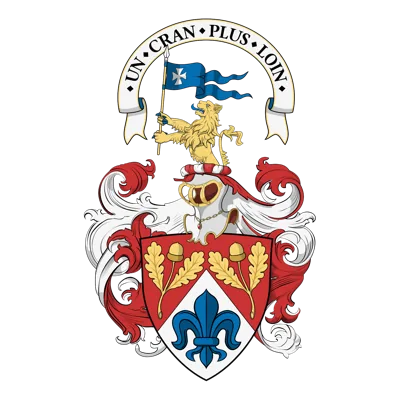
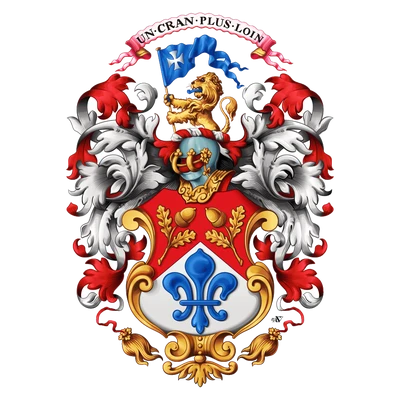
Armorial: replace Balvaird arms with richer Brim-DeForest rendering; add Windsor Herald card; reorder
- balvaird.webp replaced with the higher-quality painted Brim-DeForest of
  Balvaird achievement (bg removed -> transparent square 400x400, compressed 60KB)
- New petrie.webp (John Allen-Petrie OBE shield, transparent square, 48KB)
- Reorder: new Petrie 'officer' card takes Lundie's slot; Lundie moves to
  Greenan's slot; Greenan moves to Culbin's slot; Culbin removed
- Armorial card gains an 'officer' variant (name + office, no 'The Much Hon /
  <dignity> of' and no 'in the Baronage' flourish) for non-barony supporters

diff --git a/src/app/armorial/page.tsx b/src/app/armorial/page.tsx
@@ -91,13 +91,13 @@ export default function SupportersPage() {
                 key={b.name}
                 className="group relative flex h-full flex-col items-center border border-parchment-300/70 bg-parchment-50 px-6 pb-8 pt-10 text-center shadow-[0_18px_40px_-30px_rgba(10,16,36,0.5)] transition-[transform,border-color,box-shadow] duration-300 hover:-translate-y-1.5 hover:border-gold hover:shadow-[0_26px_50px_-28px_rgba(10,16,36,0.6)]">
                   <div className="pointer-events-none absolute inset-2.5 border border-gold/0 transition-colors duration-300 group-hover:border-gold/25" aria-hidden />
-                  {b.note && <Flourish text="in the Baronage of Scotland" placement="top" />}
+                  {b.note && !b.officer && <Flourish text="in the Baronage of Scotland" placement="top" />}
                   <div className="flex h-56 w-full items-center justify-center">
                     {b.img ? (
                       // eslint-disable-next-line @next/next/no-img-element
                       <img
                         src={b.img}
-                        alt={`Coat of arms — ${b.dignity} of ${b.name}`}
+                        alt={b.officer ? `Coat of arms — ${b.name}${b.note ? `, ${b.note}` : ""}` : `Coat of arms — ${b.dignity} of ${b.name}`}
                         width={208}
                         height={208}
                         loading="eager"
@@ -110,21 +110,34 @@ export default function SupportersPage() {
                     )}
                   </div>
                   <figcaption className="relative mt-6 w-full">
-                    {b.dignity !== "Younger" && (
-                      <span className="block font-sans text-[0.55rem] font-medium uppercase tracking-[0.26em] text-gold-deep/70">
-                        The Much Hon
-                      </span>
-                    )}
-                    <span className="mt-1 block font-sans text-xs font-semibold uppercase tracking-[0.3em] text-gold-deep">
-                      {b.dignity} of
-                    </span>
-                    <span className="mt-1.5 block font-display text-3xl text-navy">{b.name}</span>
-                    {b.note ? (
-                      <span className="mx-auto mt-2 block font-serif text-lg italic leading-snug text-gold-deep">
-                        {b.note}
-                      </span>
+                    {b.officer ? (
+                      <>
+                        <span className="block font-display text-2xl leading-tight text-navy">{b.name}</span>
+                        {b.note && (
+                          <span className="mt-2 block font-serif text-lg italic leading-snug text-gold-deep">
+                            {b.note}
+                          </span>
+                        )}
+                      </>
                     ) : (
-                      <Flourish text="in the Baronage of Scotland" placement="below" />
+                      <>
+                        {b.dignity !== "Younger" && (
+                          <span className="block font-sans text-[0.55rem] font-medium uppercase tracking-[0.26em] text-gold-deep/70">
+                            The Much Hon
+                          </span>
+                        )}
+                        <span className="mt-1 block font-sans text-xs font-semibold uppercase tracking-[0.3em] text-gold-deep">
+                          {b.dignity} of
+                        </span>
+                        <span className="mt-1.5 block font-display text-3xl text-navy">{b.name}</span>
+                        {b.note ? (
+                          <span className="mx-auto mt-2 block font-serif text-lg italic leading-snug text-gold-deep">
+                            {b.note}
+                          </span>
+                        ) : (
+                          <Flourish text="in the Baronage of Scotland" placement="below" />
+                        )}
+                      </>
                     )}
                   </figcaption>
               </figure>

diff --git a/src/lib/supporters.ts b/src/lib/supporters.ts
@@ -1,11 +1,13 @@
 /** The supporters shown in the homepage conveyor and on /supporters. */
 export type Barony = {
-  dignity: "Baron" | "Lord Baron" | "Earl Baron" | "Younger" | "Lord & Steward" | "Countess" | "Baroness";
+  dignity: "Baron" | "Lord Baron" | "Earl Baron" | "Younger" | "Lord & Steward" | "Countess" | "Baroness" | "Herald";
   name: string;
   img?: string;
   note?: string;
   /** shown on /supporters only, not in the homepage conveyor */
   pageOnly?: boolean;
+  /** a non-barony supporter (e.g. an officer of arms) — caption shows name + note only */
+  officer?: boolean;
   /** profile on roll.baronage.com */
   roll?: string;
 };
@@ -21,12 +23,12 @@ export const baronies: Barony[] = [
     note: "Chief of his Name",
   },
   { dignity: "Baron", name: "Kirkbuddo", roll: "https://roll.baronage.com/baron/jean-yves-de-la-sabliere", img: "/arms/kirkbuddo.webp" },
-  { dignity: "Baron", name: "Lundie", roll: "https://roll.baronage.com/baron/craig-ward", img: "/arms/lundie.webp" },
+  { dignity: "Herald", name: "John Allen-Petrie OBE", note: "Windsor Herald", officer: true, img: "/arms/petrie.webp", pageOnly: true },
   { dignity: "Baron", name: "Crawfordjohn", img: "/arms/crawfordjohn.webp", pageOnly: true },
   { dignity: "Baron", name: "Haliburton", img: "/arms/haliburton.webp", pageOnly: true },
   { dignity: "Baroness", name: "Redcastle", img: "/arms/redcastle.webp", pageOnly: true },
+  { dignity: "Baron", name: "Lundie", roll: "https://roll.baronage.com/baron/craig-ward", img: "/arms/lundie.webp" },
   { dignity: "Baroness", name: "Greenan", img: "/arms/greenan.webp", pageOnly: true },
-  { dignity: "Baron", name: "Culbin", img: "/arms/culbin.webp", pageOnly: true },
   { dignity: "Baron", name: "Bachuil", roll: "https://roll.baronage.com/baron/niall-livingstone-of-bachuil", img: "/arms/bachuil.webp", note: "Chief of his Name" },
   { dignity: "Lord Baron", name: "Leslie", roll: "https://roll.baronage.com/giacomo-merello.html", img: "/arms/leslie.webp" },
   { dignity: "Baron", name: "Bannockburn", roll: "https://roll.baronage.com/baron/hope-vere-anderson", img: "/arms/bannockburn.webp" },
